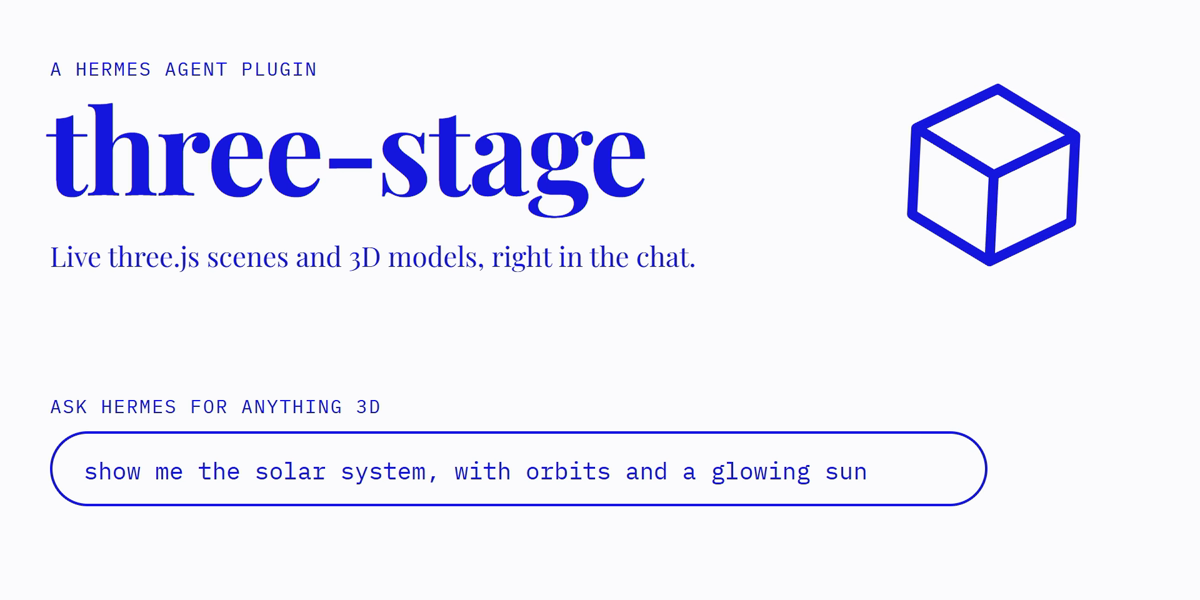
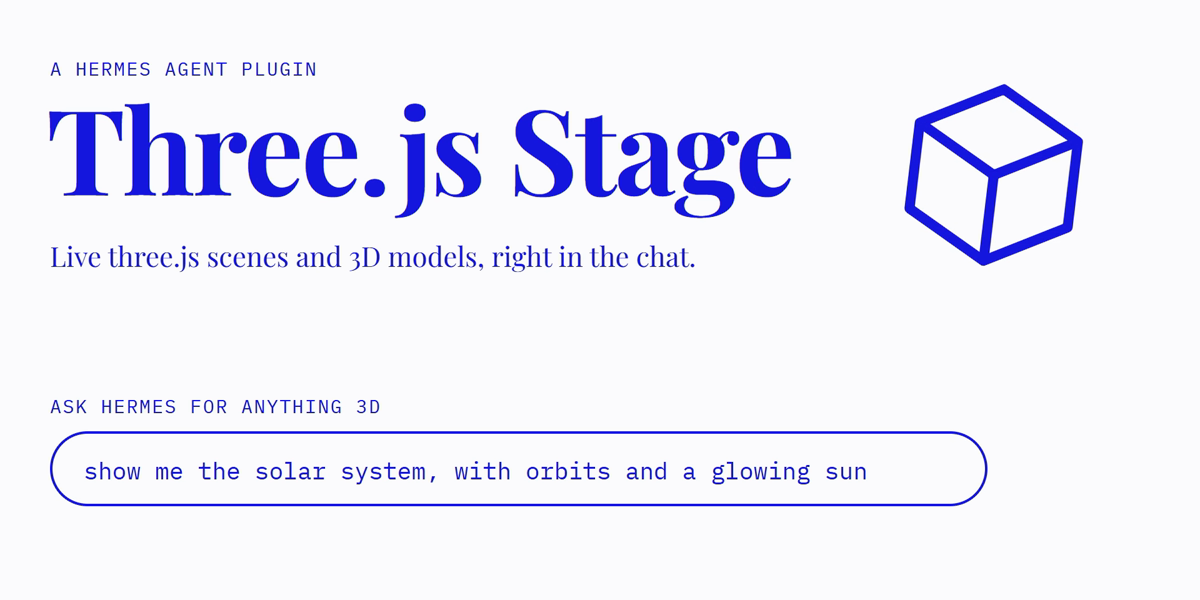
Rename to threejs-stage (Three.js Stage)
The plugin ID, toolset, storage folders, backend path and skill namespace are
now threejs-stage. The tool is still three_scene. Also: the LineLoop check no
longer trips on comments, and the README and catalog images are captures from
real Hermes Desktop.

Changed region(s): [[0.0308, 0.15, 0.6783, 0.36], [0.74, 0.18, 0.925, 0.45], [0.8017, 0.15, 0.8633, 0.18]]

diff --git a/desktop/plugin.js b/desktop/plugin.js
@@ -1,12 +1,12 @@
 // GENERATED by scripts/build.mjs from desktop/src/plugin.js and stage/guest.html. Do not edit.
-// three-stage — Desktop half. Draws three_scene results as a live, sandboxed scene card.
+// threejs-stage — Desktop half. Draws three_scene results as a live, sandboxed scene card.
 // Source of desktop/plugin.js: `node scripts/build.mjs` inlines stage/guest.html as GUEST_URL.
 import * as sdk from '@hermes/plugin-sdk'
 import { Button, Codicon, Input, SandboxedFrame, atom, host, useValue } from '@hermes/plugin-sdk'
 import { useCallback, useEffect, useMemo, useRef, useState } from 'react'
 import { jsx, jsxs } from 'react/jsx-runtime'
 
[2 lines of base64/hex data omitted]
 const TOOL = 'three_scene'
 const MAX_MESSAGE = 1800
 const SLEEP_AFTER_MS = 30000
@@ -79,7 +79,7 @@ async function watchForVerify() {
         // Claim a job only when the hidden host is mounted to run it.
         next = verifyHostMounted ? await CTX.rest('/verify/next', { method: 'POST', body: {} }) : null
       } catch (err) { // the tool times out and reports the scene as unverified
-        console.warn('[three-stage] dry run unavailable:', (err && err.message) || err)
+        console.warn('[threejs-stage] dry run unavailable:', (err && err.message) || err)
         return
       }
       if (next && next.id) {
@@ -444,8 +444,8 @@ function SceneCard({ args, result, sessionId, fallback }) {
     body = jsx('div', {
       className: 'flex h-full flex-col items-center justify-center gap-2 p-4 text-center text-sm text-(--ui-text-secondary)',
       children: [
-        jsx('div', { children: hasModel ? 'This model could not be loaded.' : 'The three-stage backend is not reachable, so the scene cannot run here.' }, 'a'),
-        jsx('div', { className: 'text-xs text-(--ui-text-tertiary)', children: 'Enable the three-stage plugin for this profile (Capabilities → Plugins) and restart the gateway. ' + clip(loadError, 200) }, 'b')
+        jsx('div', { children: hasModel ? 'This model could not be loaded.' : 'The threejs-stage backend is not reachable, so the scene cannot run here.' }, 'a'),
+        jsx('div', { className: 'text-xs text-(--ui-text-tertiary)', children: 'Enable the threejs-stage plugin for this profile (Capabilities → Plugins) and restart the gateway. ' + clip(loadError, 200) }, 'b')
       ]
     })
   } else if (asleep) {
@@ -524,8 +524,8 @@ function SceneCard({ args, result, sessionId, fallback }) {
 }
 
 export default {
-  id: 'three-stage',
-  name: 'three-stage',
+  id: 'threejs-stage',
+  name: 'Three.js Stage',
   register(ctx) {
     CTX = ctx
     runtimePromise = null

diff --git a/desktop/src/plugin.js b/desktop/src/plugin.js
@@ -1,4 +1,4 @@
-// three-stage — Desktop half. Draws three_scene results as a live, sandboxed scene card.
+// threejs-stage — Desktop half. Draws three_scene results as a live, sandboxed scene card.
 // Source of desktop/plugin.js: `node scripts/build.mjs` inlines stage/guest.html as GUEST_URL.
 import * as sdk from '@hermes/plugin-sdk'
 import { Button, Codicon, Input, SandboxedFrame, atom, host, useValue } from '@hermes/plugin-sdk'
@@ -78,7 +78,7 @@ async function watchForVerify() {
         // Claim a job only when the hidden host is mounted to run it.
         next = verifyHostMounted ? await CTX.rest('/verify/next', { method: 'POST', body: {} }) : null
       } catch (err) { // the tool times out and reports the scene as unverified
-        console.warn('[three-stage] dry run unavailable:', (err && err.message) || err)
+        console.warn('[threejs-stage] dry run unavailable:', (err && err.message) || err)
         return
       }
       if (next && next.id) {
@@ -443,8 +443,8 @@ function SceneCard({ args, result, sessionId, fallback }) {
     body = jsx('div', {
       className: 'flex h-full flex-col items-center justify-center gap-2 p-4 text-center text-sm text-(--ui-text-secondary)',
       children: [
-        jsx('div', { children: hasModel ? 'This model could not be loaded.' : 'The three-stage backend is not reachable, so the scene cannot run here.' }, 'a'),
-        jsx('div', { className: 'text-xs text-(--ui-text-tertiary)', children: 'Enable the three-stage plugin for this profile (Capabilities → Plugins) and restart the gateway. ' + clip(loadError, 200) }, 'b')
+        jsx('div', { children: hasModel ? 'This model could not be loaded.' : 'The threejs-stage backend is not reachable, so the scene cannot run here.' }, 'a'),
+        jsx('div', { className: 'text-xs text-(--ui-text-tertiary)', children: 'Enable the threejs-stage plugin for this profile (Capabilities → Plugins) and restart the gateway. ' + clip(loadError, 200) }, 'b')
       ]
     })
   } else if (asleep) {
@@ -523,8 +523,8 @@ function SceneCard({ args, result, sessionId, fallback }) {
 }
 
 export default {
-  id: 'three-stage',
-  name: 'three-stage',
+  id: 'threejs-stage',
+  name: 'Three.js Stage',
   register(ctx) {
     CTX = ctx
     runtimePromise = null

diff --git a/stage/guest.html b/stage/guest.html
@@ -1,6 +1,6 @@
 <!doctype html>
 <html lang="en"><head><meta charset="utf-8"><!--CSP--><meta name="viewport" content="width=device-width,initial-scale=1">
-<title>three-stage</title>
+<title>threejs-stage</title>
 <style>
 html,body{margin:0;height:100%;overflow:hidden;background:#15161a;color:#ccc;font:12px/1.4 system-ui,sans-serif}
 body.standalone{background:#15161a}
@@ -11,7 +11,7 @@ canvas{display:block;width:100%;height:100%;touch-action:none;outline:none}
 </style></head>
 <body><canvas id="stage" tabindex="0"></canvas><div id="boot">loading scene…</div><div id="hint">Click the scene, then scroll to zoom</div>
 <script>
-// three-stage harness. Runs scene code written for three.js r187 inside a sandboxed frame.
+// threejs-stage harness. Runs scene code written for three.js r187 inside a sandboxed frame.
 // Desktop mode: the host card posts {t:'boot'} with three.js sources + scene code (no network).
 // Standalone mode (exported HTML): window.__THREE_STAGE__ carries the scene and a CDN base.
 (() => {
@@ -51,7 +51,7 @@ canvas{display:block;width:100%;height:100%;touch-action:none;outline:none}
     const payload = { t: 'error', backend: renderer ? backendName() : null, kind, name: (err && err.name) || 'Error', message, line: pos ? pos.line : null, col: pos ? pos.col : null, codeFrame: pos ? codeFrame(pos.line) : '', stack }
     if (kind !== 'console') { failed = true; stop(); bootEl.textContent = kind + ' error: ' + message; bootEl.style.opacity = '.9' }
     toHost(payload)
-    if (STANDALONE) console.error('[three-stage]', payload)
+    if (STANDALONE) console.error('[threejs-stage]', payload)
   }
 
   window.addEventListener('error', (e) => {
@@ -391,7 +391,7 @@ canvas{display:block;width:100%;height:100%;touch-action:none;outline:none}
     document.body.classList.add('standalone')
     installImportMap(mapFromCdn(STANDALONE.cdn))
     modelData = STANDALONE.model || null
-    document.title = STANDALONE.title || 'three-stage scene'
+    document.title = STANDALONE.title || 'threejs-stage scene'
     startScene(STANDALONE.code)
     return
   }

diff --git a/probe/guest.html b/probe/guest.html
@@ -5,7 +5,7 @@ html,body{margin:0;height:100%;background:#15161a;color:#ddd;font:11px/1.3 syste
 canvas{display:block}
 </style></head><body><div id="stage"></div><div id="log">probe booting…</div>
 <script>
-// Feasibility probe for three-stage. Runs inside SandboxedFrame (opaque origin, allow-scripts).
+// Feasibility probe for threejs-stage. Runs inside SandboxedFrame (opaque origin, allow-scripts).
 const out = { mode: location.protocol, startedAt: Date.now(), env: {}, webgpu: {}, webgl2: {}, three: {} }
 const logEl = document.getElementById('log')
 const MODE = location.protocol.replace(':','')
@@ -225,7 +225,7 @@ async function runThree(src) {
 }
 
 window.addEventListener('message', (e) => {
-  if (e.data && e.data.type === 'three-stage-probe-src') runThree(e.data.src)
+  if (e.data && e.data.type === 'threejs-stage-probe-src') runThree(e.data.src)
 })
 
 ;(async () => {

diff --git a/dashboard/dist/index.js b/dashboard/dist/index.js
@@ -1,9 +1,9 @@
-// three-stage has no web-dashboard UI: this manifest exists to mount plugin_api.py, which the
+// threejs-stage has no web-dashboard UI: this manifest exists to mount plugin_api.py, which the
 // Desktop half calls through ctx.rest. The dashboard still loads the entry, so register an empty page.
 (function () {
   var plugins = window.__HERMES_PLUGINS__
   if (plugins && typeof plugins.register === 'function') {
-    plugins.register('three-stage', function ThreeStagePlaceholder() {
+    plugins.register('threejs-stage', function ThreeStagePlaceholder() {
       return null
     })
   }

diff --git a/scene.py b/scene.py
@@ -19,7 +19,7 @@ import time
 from pathlib import Path, PurePosixPath
 from urllib.parse import unquote
 
-PLUGIN = "three-stage"
+PLUGIN = "threejs-stage"
 TOOL = "three_scene"
 MAX_CODE_BYTES = 200_000
 MAX_TITLE = 80
@@ -63,7 +63,7 @@ SCHEMA = {
         "file). Use it whenever a 3D visual, simulation, model or diagram would help. To show a "
         "model file, pass `model` (no code needed). To customise it, also pass `code`: the loaded "
         "model is stage.model. Before writing code the first time in a "
-        "session, load the skill `three-stage:three-r187` for the full contract. Contract: `code` is "
+        "session, load the skill `threejs-stage:three-r187` for the full contract. Contract: `code` is "
         "an ES module that does `export default function (stage) {...}`; `stage` gives THREE "
         "(three/webgpu), TSL, scene, camera, renderer (an initialised WebGPURenderer, which may run "
         "on its WebGL2 backend), controls (OrbitControls), canvas, backend ('WebGPU'|'WebGL2') and "
@@ -178,7 +178,7 @@ def _glb_json(path: Path) -> dict:
 def _gltf_refs(doc: dict) -> list[str]:
     blocked = sorted({UNSUPPORTED_EXTENSIONS[e] for e in doc.get("extensionsRequired", []) if e in UNSUPPORTED_EXTENSIONS})
     if blocked:
-        raise ModelError(f"This model needs {', '.join(blocked)}, which three-stage does not support. "
+        raise ModelError(f"This model needs {', '.join(blocked)}, which threejs-stage does not support. "
                          "Export it again without compression.")
     refs = []
     for entry in (doc.get("buffers") or []) + (doc.get("images") or []):

diff --git a/dashboard/plugin_api.py b/dashboard/plugin_api.py
@@ -1,6 +1,6 @@
-"""three-stage backend: what the Desktop scene card needs from the machine Hermes runs on.
+"""threejs-stage backend: what the Desktop scene card needs from the machine Hermes runs on.
 
-Mounted at ``/api/plugins/three-stage/`` once the plugin is in ``plugins.enabled``. The Desktop card
+Mounted at ``/api/plugins/threejs-stage/`` once the plugin is in ``plugins.enabled``. The Desktop card
 never reads files itself (Desktop may be connected to a remote Hermes), so it asks here.
 
 Routes:
@@ -38,7 +38,7 @@ _runtime_cache: dict | None = None
 
 def _load_scene_module():
     """``scene.py`` beside this folder; the plugin host imports this file standalone (no package)."""
-    spec = importlib.util.spec_from_file_location("hermes_three_stage_scene", _ROOT / "scene.py")
+    spec = importlib.util.spec_from_file_location("hermes_threejs_stage_scene", _ROOT / "scene.py")
     module = importlib.util.module_from_spec(spec)
     spec.loader.exec_module(module)
     return module

diff --git a/__init__.py b/__init__.py
@@ -1,4 +1,4 @@
-"""three-stage: live three.js r187 scenes in Hermes chat.
+"""threejs-stage: live three.js r187 scenes in Hermes chat.
 
 Registers one tool (``three_scene``) and one skill (``three-r187``) through the public plugin API.
 The Desktop half (``desktop/plugin.js``) draws the tool's ``MEDIA:`` file as a live scene card.
@@ -10,7 +10,7 @@ from pathlib import Path
 
 from . import scene as _scene
 
-TOOLSET = "three_stage"
+TOOLSET = "threejs_stage"
 SKILL = "three-r187"
 SKILL_DESCRIPTION = "Write correct three.js r187 scenes for three_scene."
 

diff --git a/README.md b/README.md
@@ -1,4 +1,4 @@
-# three-stage
+# Three.js Stage
 
 Live three.js r187 scenes and 3D models in Hermes chat.
 
@@ -40,15 +40,15 @@ model can't see what its own code does on a real GPU.
 | Part | What it does |
 |---|---|
 | `three_scene` tool | Statically checks the scene against the r187 contract (imports, renderer misuse, GLSL, storage, loop ownership) and validates model files. It rejects problems in the same turn, stores the scene, and returns a `MEDIA:` line. |
-| `three-stage:three-r187` skill | The scene contract, the WebGL2-vs-WebGPU rules, bundled addons, and recipes (environment lighting, shadows, instancing, bloom, TSL materials). |
+| `threejs-stage:three-r187` skill | The scene contract, the WebGL2-vs-WebGPU rules, bundled addons, and recipes (environment lighting, shadows, instancing, bloom, TSL materials). |
 | Desktop card | A tool media renderer for `three_scene`. It runs the scene in a `SandboxedFrame` whose content security policy blocks network access, and pauses rendering when scrolled out of view. |
 | Backend (`dashboard/plugin_api.py`) | Serves the vendored three.js r187 to the card, serves scene records and stored models (by scene id, never by path), and saves screenshots. |
 
 ## Requirements and install
 
 - Hermes `>= 0.22.7`. The card needs a Desktop build with tool media renderers.
-- `hermes plugins install three-stage`, then enable it for the profile
-  (`hermes plugins enable three-stage`) and turn on its Desktop half in **Capabilities → Plugins**.
+- `hermes plugins install threejs-stage`, then enable it for the profile
+  (`hermes plugins enable threejs-stage`) and turn on its Desktop half in **Capabilities → Plugins**.
 - Restart the gateway once after installing, so the plugin's backend routes are mounted.
 
 ## Disclosures
@@ -64,9 +64,9 @@ model can't see what its own code does on a real GPU.
   and has no such policy.
 - **Files read and written.** When Hermes passes a model path, the tool reads that file and the
   `.bin`, `.mtl` and image files it references. References that leave the model's folder are
-  refused. It copies them to `<HERMES_HOME>/plugin-data/three-stage/models/`. Scene records go to
-  `.../plugin-data/three-stage/scenes/`, screenshots to `.../plugin-data/three-stage/screenshots/`,
-  and delivered files to `<HERMES_HOME>/cache/generated/three-stage/`. Nothing is deleted
+  refused. It copies them to `<HERMES_HOME>/plugin-data/threejs-stage/models/`. Scene records go to
+  `.../plugin-data/threejs-stage/scenes/`, screenshots to `.../plugin-data/threejs-stage/screenshots/`,
+  and delivered files to `<HERMES_HOME>/cache/generated/threejs-stage/`. Nothing is deleted
   automatically; these folders are safe to clear, at the cost of old cards no longer reopening.
 - **Hidden dry runs.** With Desktop open, each `three_scene` call runs the scene briefly in a
   hidden sandboxed frame. The tool waits up to 2.5 seconds for Desktop to pick it up, and up to
